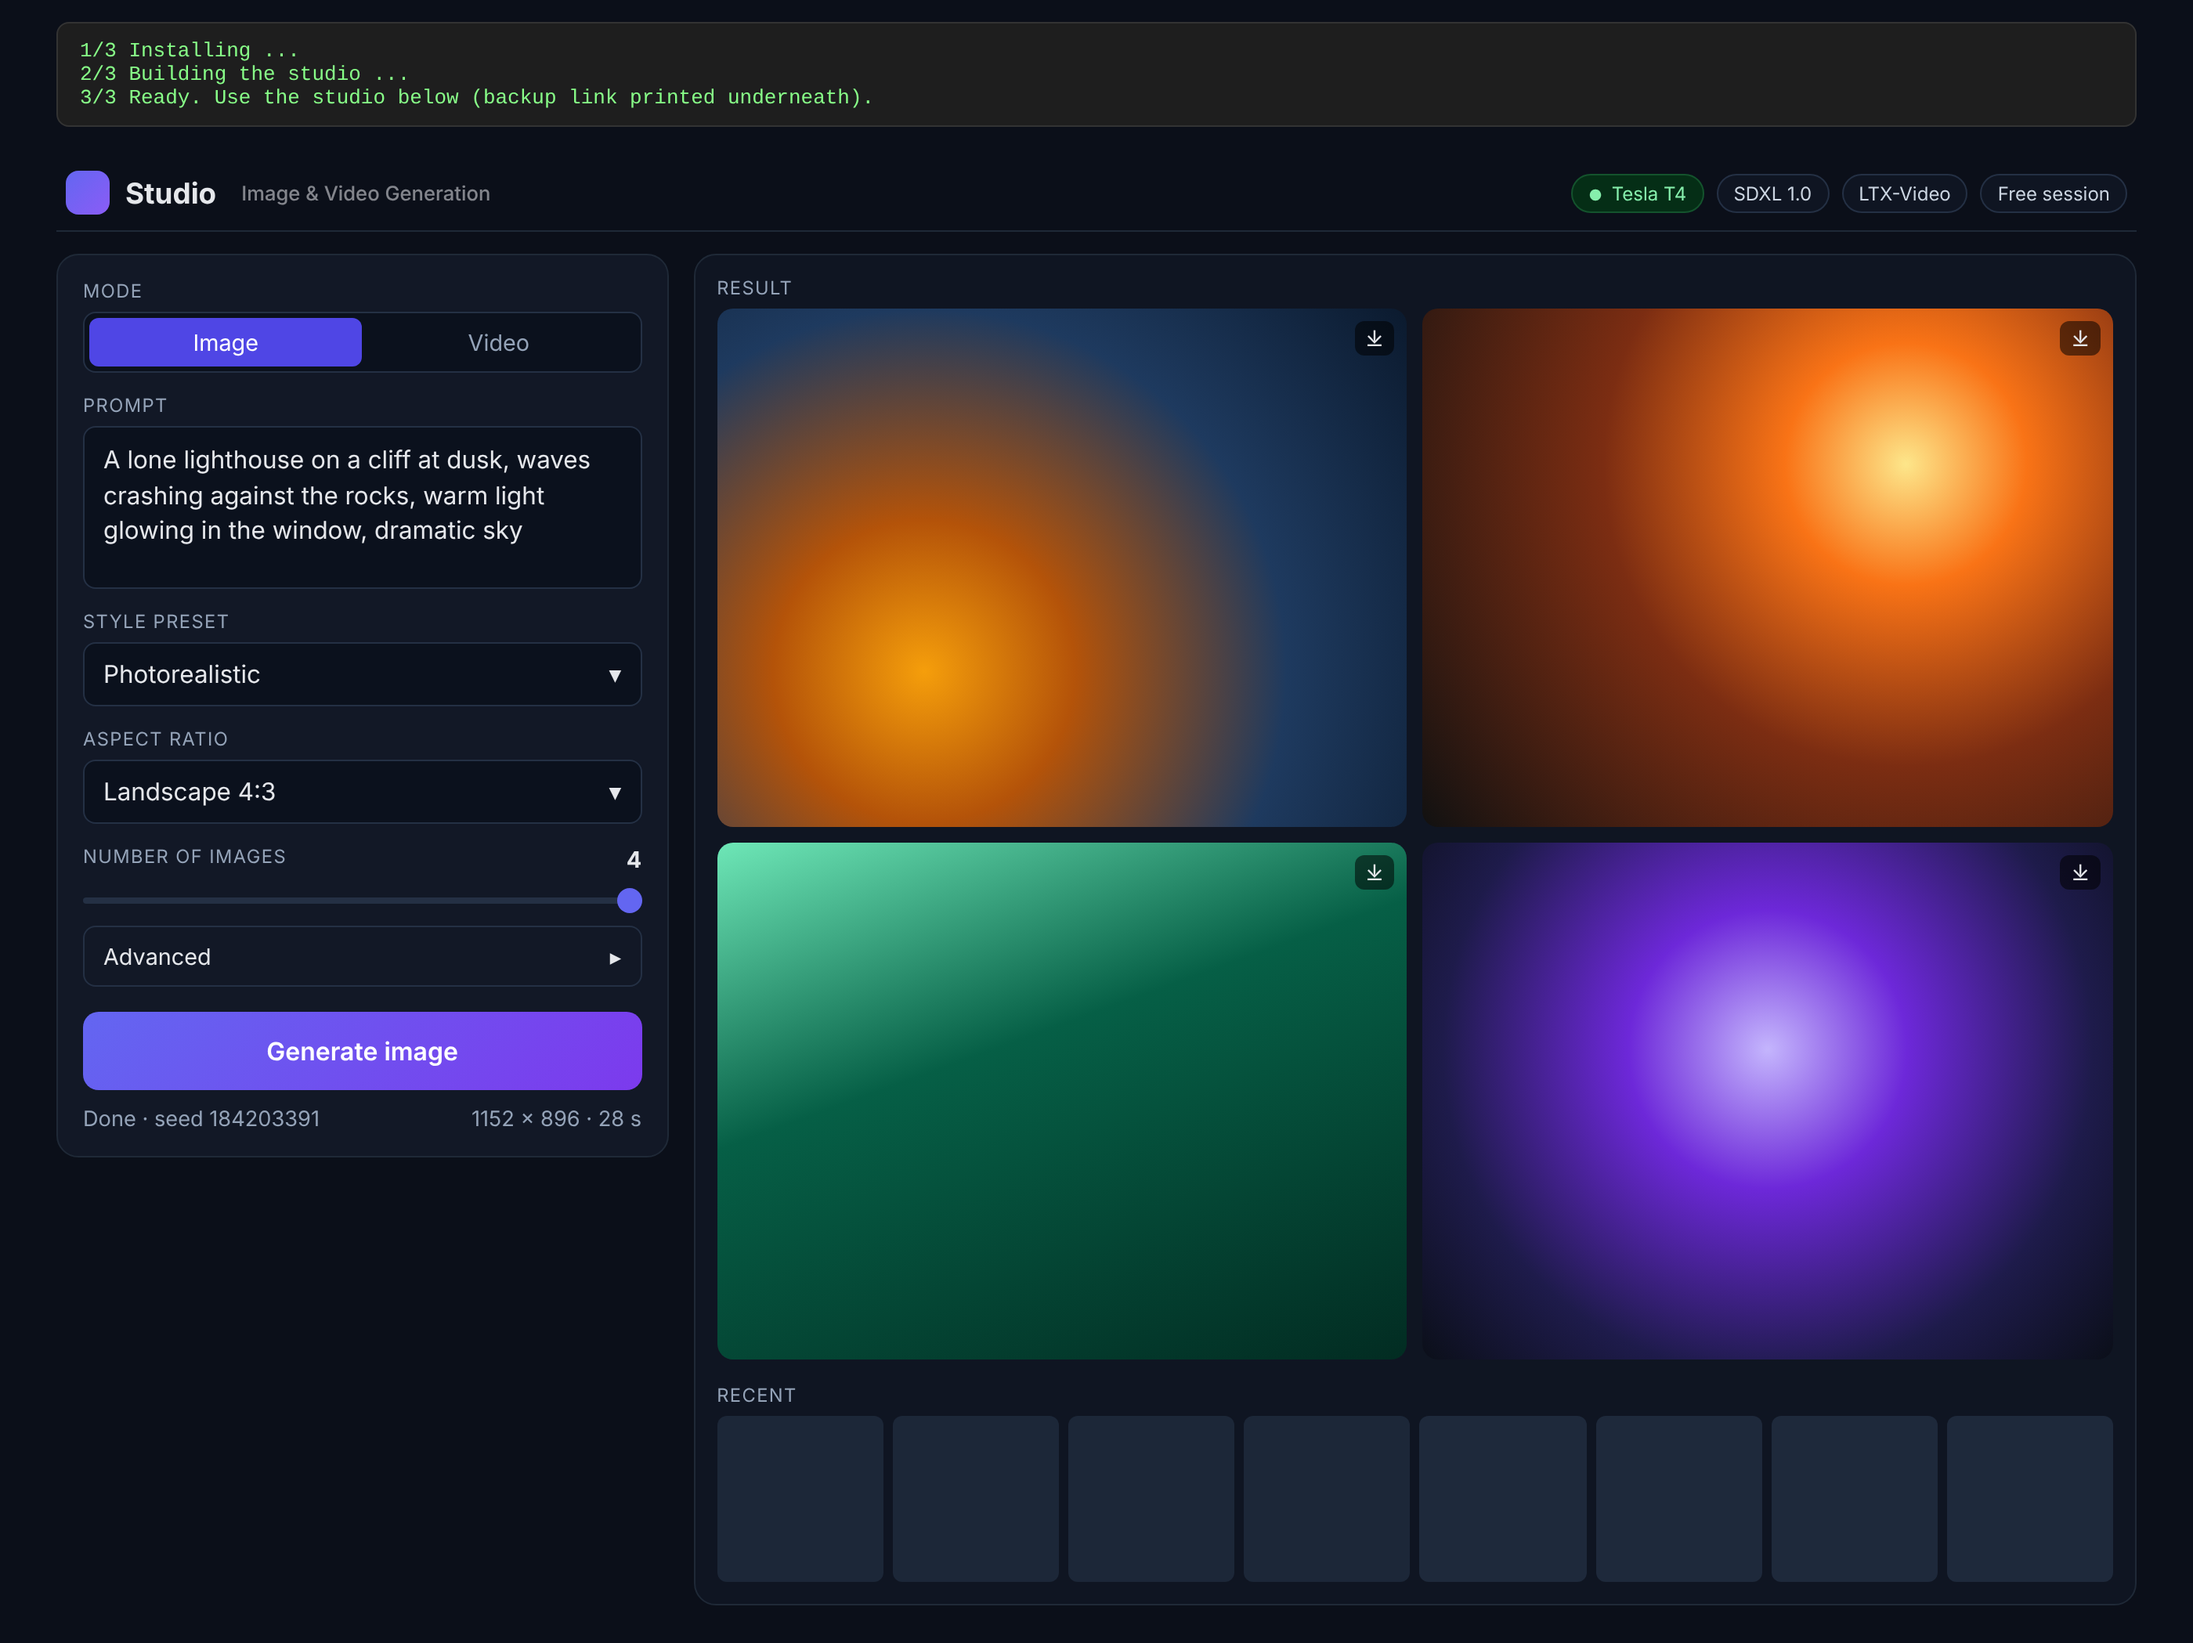
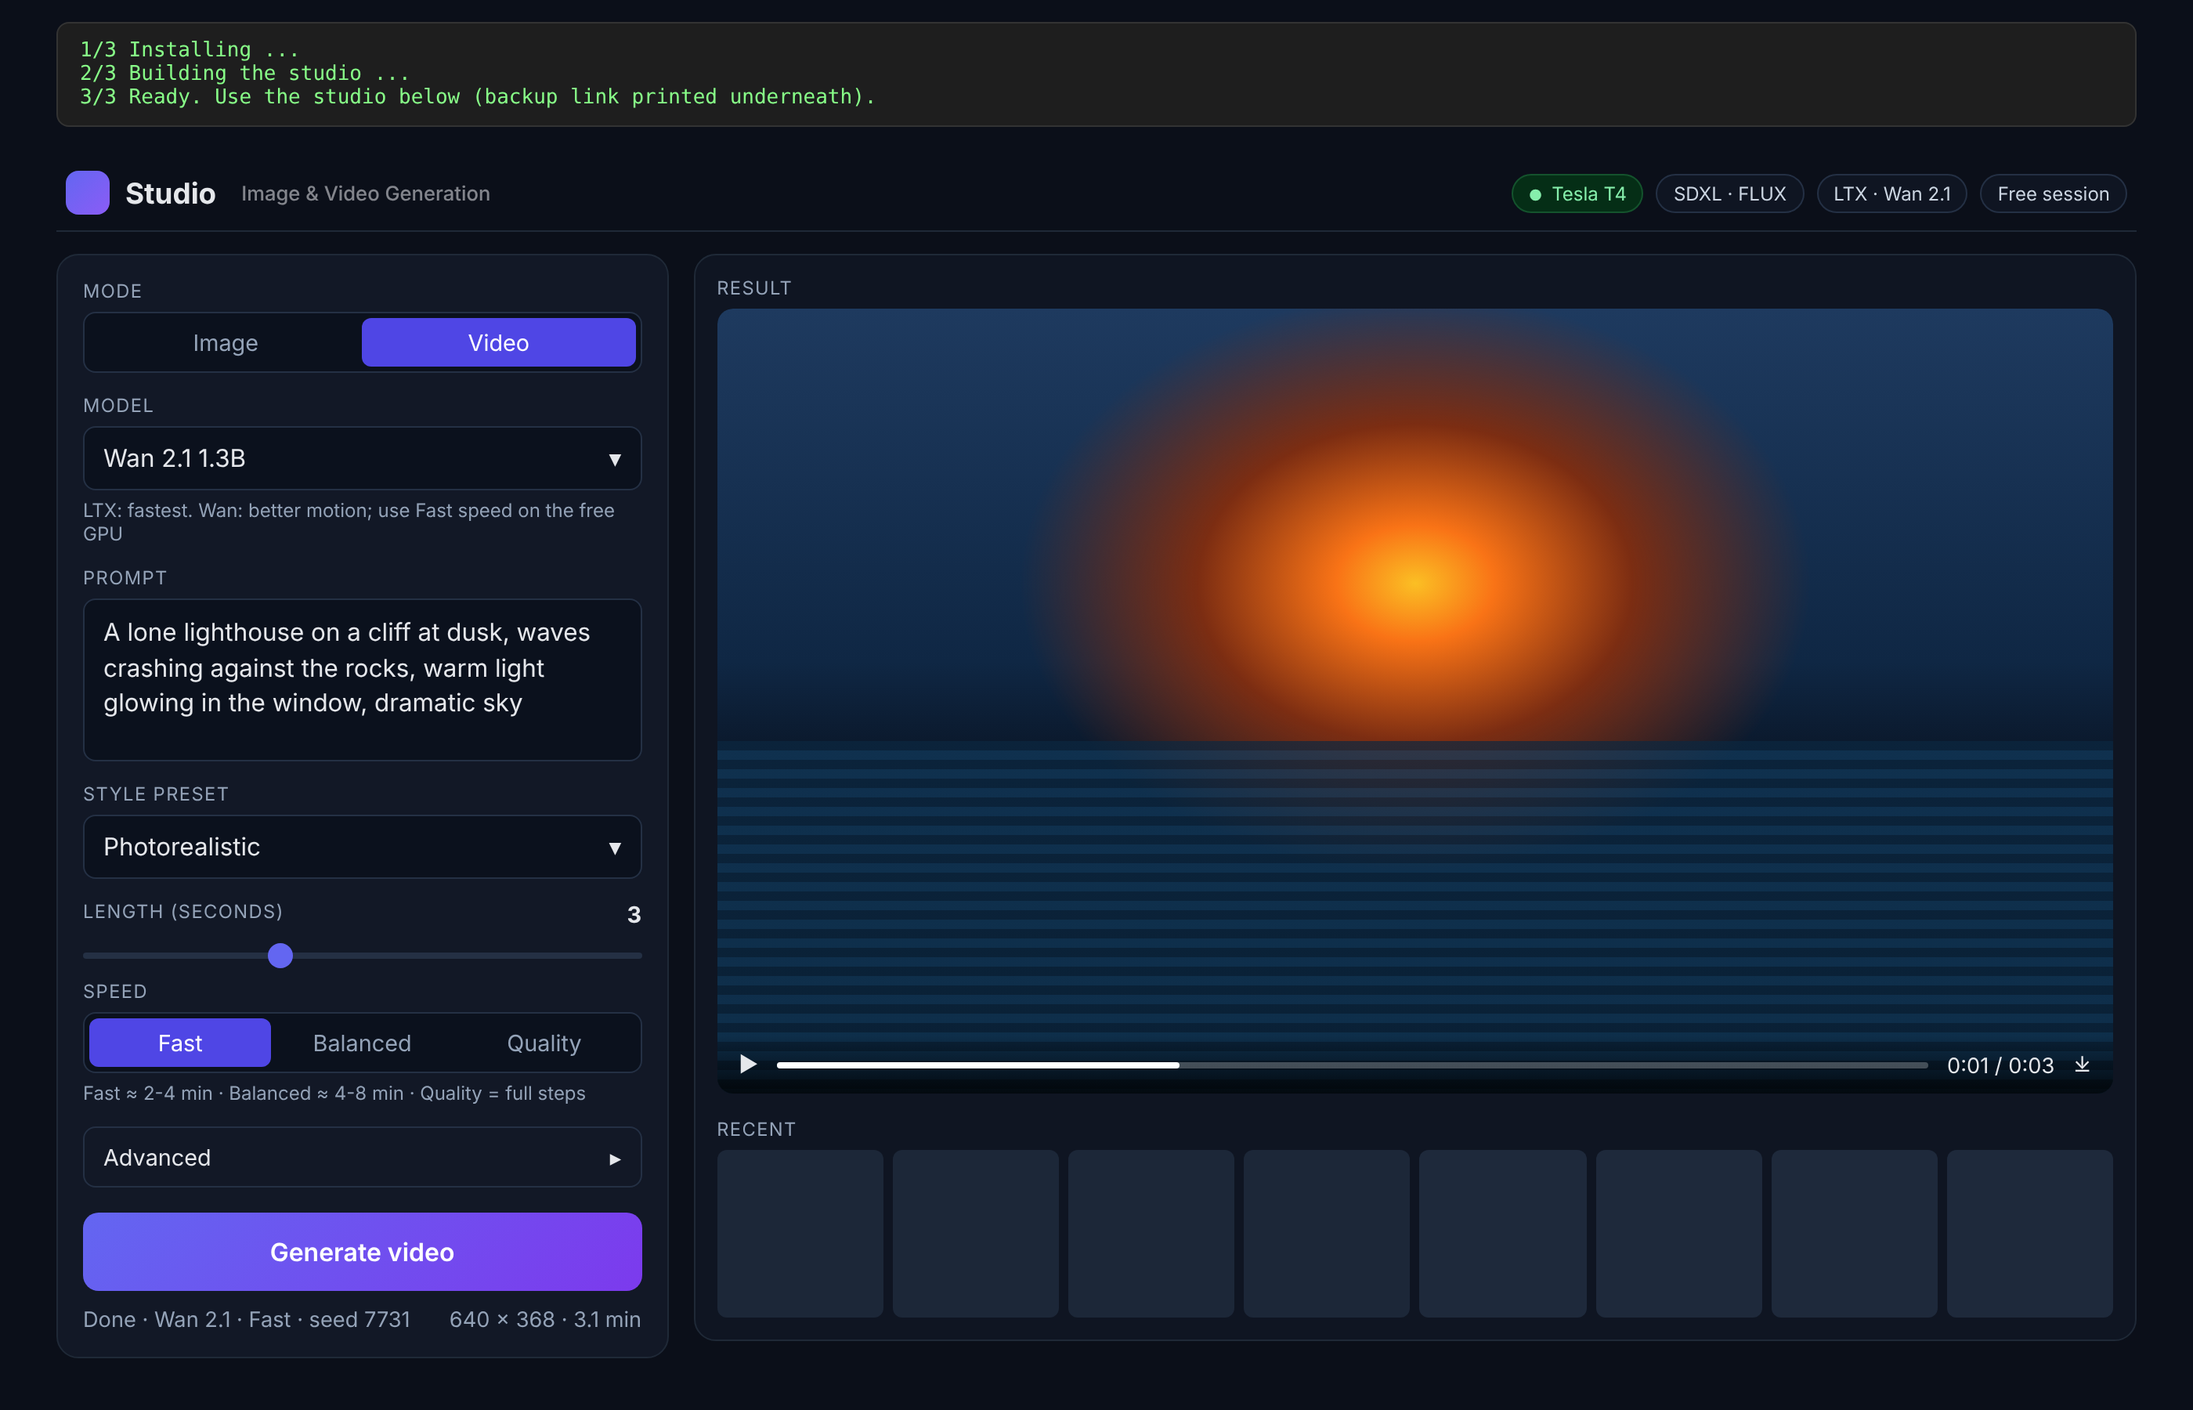
Update mockup to show video mode with model and speed controls
Claude-Session: https://claude.ai/code/session_01V62FWSKJAdGXVtzyfSMPTH

diff --git a/easy-ai-generator/studio_mockup.html b/easy-ai-generator/studio_mockup.html
@@ -29,24 +29,30 @@
 .recent{display:grid;grid-template-columns:repeat(8,1fr);gap:6px}.recent>div{aspect-ratio:1;border-radius:6px;background:#1e293b}
 .recent .a,.recent .b,.recent .c,.recent .d{opacity:.9}
 .colab{background:#1e1e1e;border:1px solid #333;border-radius:8px;padding:10px 14px;font:13px ui-monospace,monospace;color:#8f8;margin:14px 0}
+.vid{border-radius:10px;overflow:hidden;background:#000;aspect-ratio:16/9;position:relative}
+.scene{position:absolute;inset:0;background:radial-gradient(ellipse at 50% 35%,#fbbf24 0,#f97316 8%,#7c2d12 22%,transparent 40%),linear-gradient(180deg,#1e3a5f 0,#0f2744 45%,#0b1a2e 55%,#06111d 100%)}
+.scene:before{content:"";position:absolute;left:0;right:0;top:55%;height:45%;background:repeating-linear-gradient(180deg,#0b2740 0 6px,#113a5c 6px 12px);opacity:.7}
+.ctrl{position:absolute;left:0;right:0;bottom:0;display:flex;align-items:center;gap:12px;padding:10px 14px;background:linear-gradient(transparent,#000c);font-size:.85rem}
+.bar{flex:1;height:4px;background:#ffffff40;border-radius:2px}.bar i{display:block;width:35%;height:100%;background:#fff;border-radius:2px}
 </style></head><body><div class="wrap">
 <div class="colab">1/3 Installing ...<br>2/3 Building the studio ...<br>3/3 Ready. Use the studio below (backup link printed underneath).</div>
 <div id="topbar"><div class="brand"><span class="mark"></span>Studio<small>Image &amp; Video Generation</small></div>
-<div class="badges"><span class="badge ok">Tesla T4</span><span class="badge">SDXL 1.0</span><span class="badge">LTX-Video</span><span class="badge">Free session</span></div></div>
+<div class="badges"><span class="badge ok">Tesla T4</span><span class="badge">SDXL · FLUX</span><span class="badge">LTX · Wan 2.1</span><span class="badge">Free session</span></div></div>
 <div class="row">
 <div id="panel">
- <div class="lbl">Mode</div><div class="seg"><div class="on">Image</div><div>Video</div></div>
+ <div class="lbl">Mode</div><div class="seg"><div>Image</div><div class="on">Video</div></div>
+ <div class="lbl">Model</div><div class="inp sel">Wan 2.1 1.3B <span>▾</span></div><div style="font-size:.75rem;color:var(--muted);margin-top:5px">LTX: fastest. Wan: better motion; use Fast speed on the free GPU</div>
  <div class="lbl">Prompt</div><div class="inp" style="min-height:104px;line-height:1.45">A lone lighthouse on a cliff at dusk, waves crashing against the rocks, warm light glowing in the window, dramatic sky</div>
  <div class="lbl">Style preset</div><div class="inp sel">Photorealistic <span>▾</span></div>
- <div class="lbl">Aspect ratio</div><div class="inp sel">Landscape 4:3 <span>▾</span></div>
- <div class="sl-h">Number of images <b>4</b></div><div class="slider"><i style="left:100%;margin-left:-16px"></i></div>
+ <div class="sl-h">Length (seconds) <b>3</b></div><div class="slider"><i style="left:33%"></i></div>
+ <div class="lbl">Speed</div><div class="seg"><div class="on">Fast</div><div>Balanced</div><div>Quality</div></div><div style="font-size:.75rem;color:var(--muted);margin-top:5px">Fast ≈ 2-4 min · Balanced ≈ 4-8 min · Quality = full steps</div>
  <div class="acc">Advanced <span>▸</span></div>
- <button class="btn">Generate image</button>
- <div class="status"><span>Done · seed 184203391</span><span>1152 × 896 · 28 s</span></div>
+ <button class="btn">Generate video</button>
+ <div class="status"><span>Done · Wan 2.1 · Fast · seed 7731</span><span>640 × 368 · 3.1 min</span></div>
 </div>
 <div id="canvas">
  <div class="lbl">Result</div>
- <div class="gal"><div class="img a"></div><div class="img b"></div><div class="img c"></div><div class="img d"></div></div>
+ <div class="vid"><div class="scene"></div><div class="ctrl"><span>▶</span><div class="bar"><i></i></div><span>0:01 / 0:03</span><span>⤓</span></div></div>
  <div class="lbl" style="margin-top:16px">Recent</div>
  <div class="recent"><div class="a"></div><div class="b"></div><div class="c"></div><div class="d"></div><div></div><div></div><div></div><div></div></div>
 </div></div></div></body></html>
